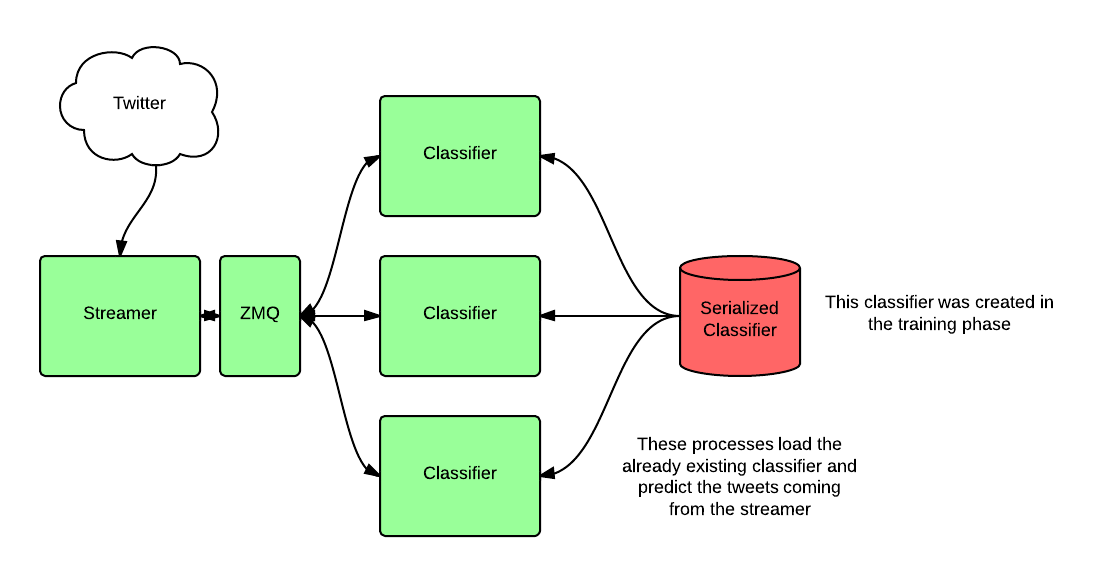
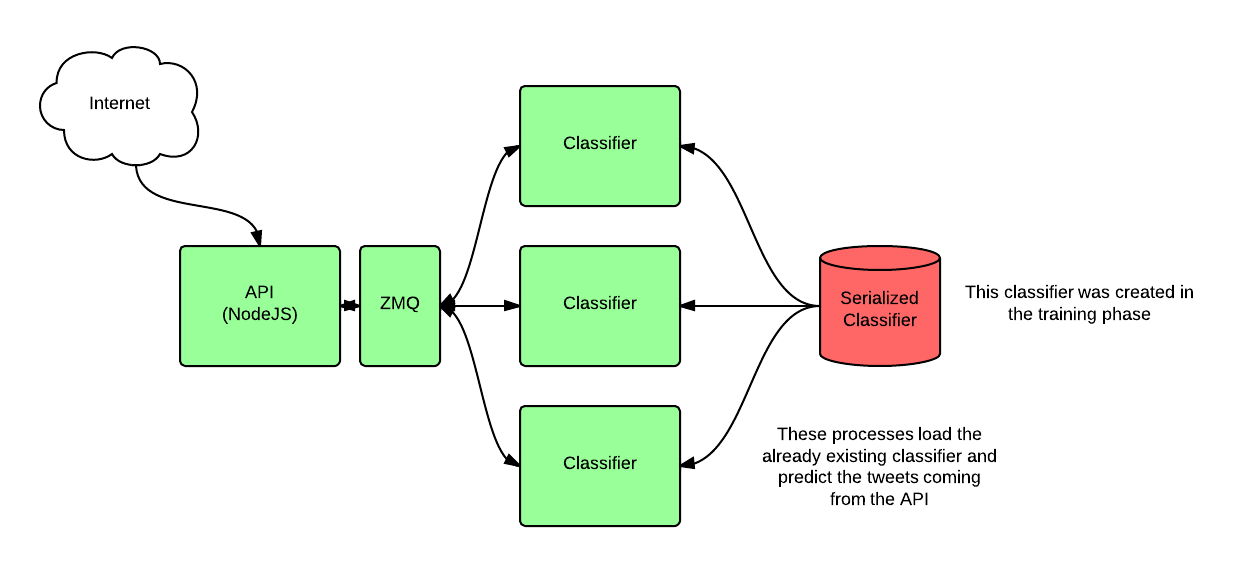
okay

diff --git a/index.html b/index.html
@@ -410,42 +410,21 @@ print self.classifier.classify(reduced_feature_vector)
                                         </code></pre>
                                 </section>
                                 <section>
-                                    <h3>Building a classification API</h3>
-                                </section>
-
-
-                                <section class="fourteen">
                                     <section>
-                                        <h2>Core</h2>
+                                        <h3>Building a classification API</h3>
+                                        <img src="/images/ipc2.png"/>
                                         <ul>
-                                            <li class="fragment">Provides <strong>inter-process communication</strong> to streamer and classifier</li>
-                                            <li class="fragment">Built with scalability and maintainability in mind</li>
-                                            <li class="fragment">Event driven: Everything is within the concept of a <strong>stream</strong></li>
+                                            <li class="fragment">Classifier is slow, no matter how much optimization is made</li>
+                                            <li class="fragment">Classifier is a blocking process, API must be event-driven</li>
                                         </ul>
                                     </section>
                                     <section>
-                                        <h3>Inter-Process Communication</h3>
-                                        <h5>Why do we need it?</h5>
-                                        <div class="multicolumn">
-                                            <ul>
-                                                <li class="fragment">Twitter stream is concurrent, up to 50 tps</li>
-                                                <li class="fragment">Classifier is slow, no matter how much optimization is made</li>
-                                                <li class="fragment">Classifier is a blocking process, Streamer is event-driven</li>
-                                            </ul>
-                                            <img src="/images/ipc2.png"/>
-                                        </div>
+                                        <h3>Building a classification API</h3>
+                                        <h5>Scaling towards infinity and beyond</h5>
+                                        <img src="/images/ipc3.png"/>
                                     </section>
                                     <section>
-                                        <h3>Inter-Process Communication</h3>
-                                        <h5>Creating a distributed system</h5>
-                                        <ul>
-                                            <li class="fragment">Distribute applications across multiple processes</li>
-                                            <li class="fragment">Apps handle a small scope of the responsibility</li>
-                                            <li class="fragment">Apps talk to apps via a standardized protocol</li>
-                                        </ul>
-                                    </section>
-                                    <section>
-                                        <h3>Inter-Process Communication</h3>
+                                        <h3>Building a classification API</h3>
                                         <h5>ZeroMQ</h5>
                                         <div class="multicolumn">
                                             <ul>
@@ -456,27 +435,10 @@ print self.classifier.classify(reduced_feature_vector)
                                             <img src="http://www.enterpriseintegrationpatterns.com/img/CompetingConsumers.gif" alt="" />
                                         </div>
                                     </section>
-                                    <section>
-                                        <h3>Inter-Process Communication</h3>
-                                        <h5>Round-robin load balancing</h5>
-                                        <img src="/images/ipc3.png" />
-                                    </section>
                                 </section>
 
-                                <section class="fifteen">
-                                    <h2>Web Application</h2>
-                                    <div class="multicolumn">
-                                        <ul>
-                                            <li class="fragment">Built using BackboneJS</li>
-                                            <li class="fragment">Uses <strong>MVC</strong> and <strong>PUB-SUB</strong> to communicate throughout the system</li>
-                                            <li class="fragment">Not a web site, a fully independent web application</li>
-                                            <li class="fragment">Uses <strong>web-sockets</strong> for real-time communication</li>
-                                        </ul>
-                                        <img src="/images/worldmood" />
-                                    </div>
-                                </section>
                                 <section>
-                                <h1>DEMO</h1>
+                                    <h1>DEMO</h1>
                                 </section>
                                 <section>
                                     <h2>Milestones Reached</h2>
